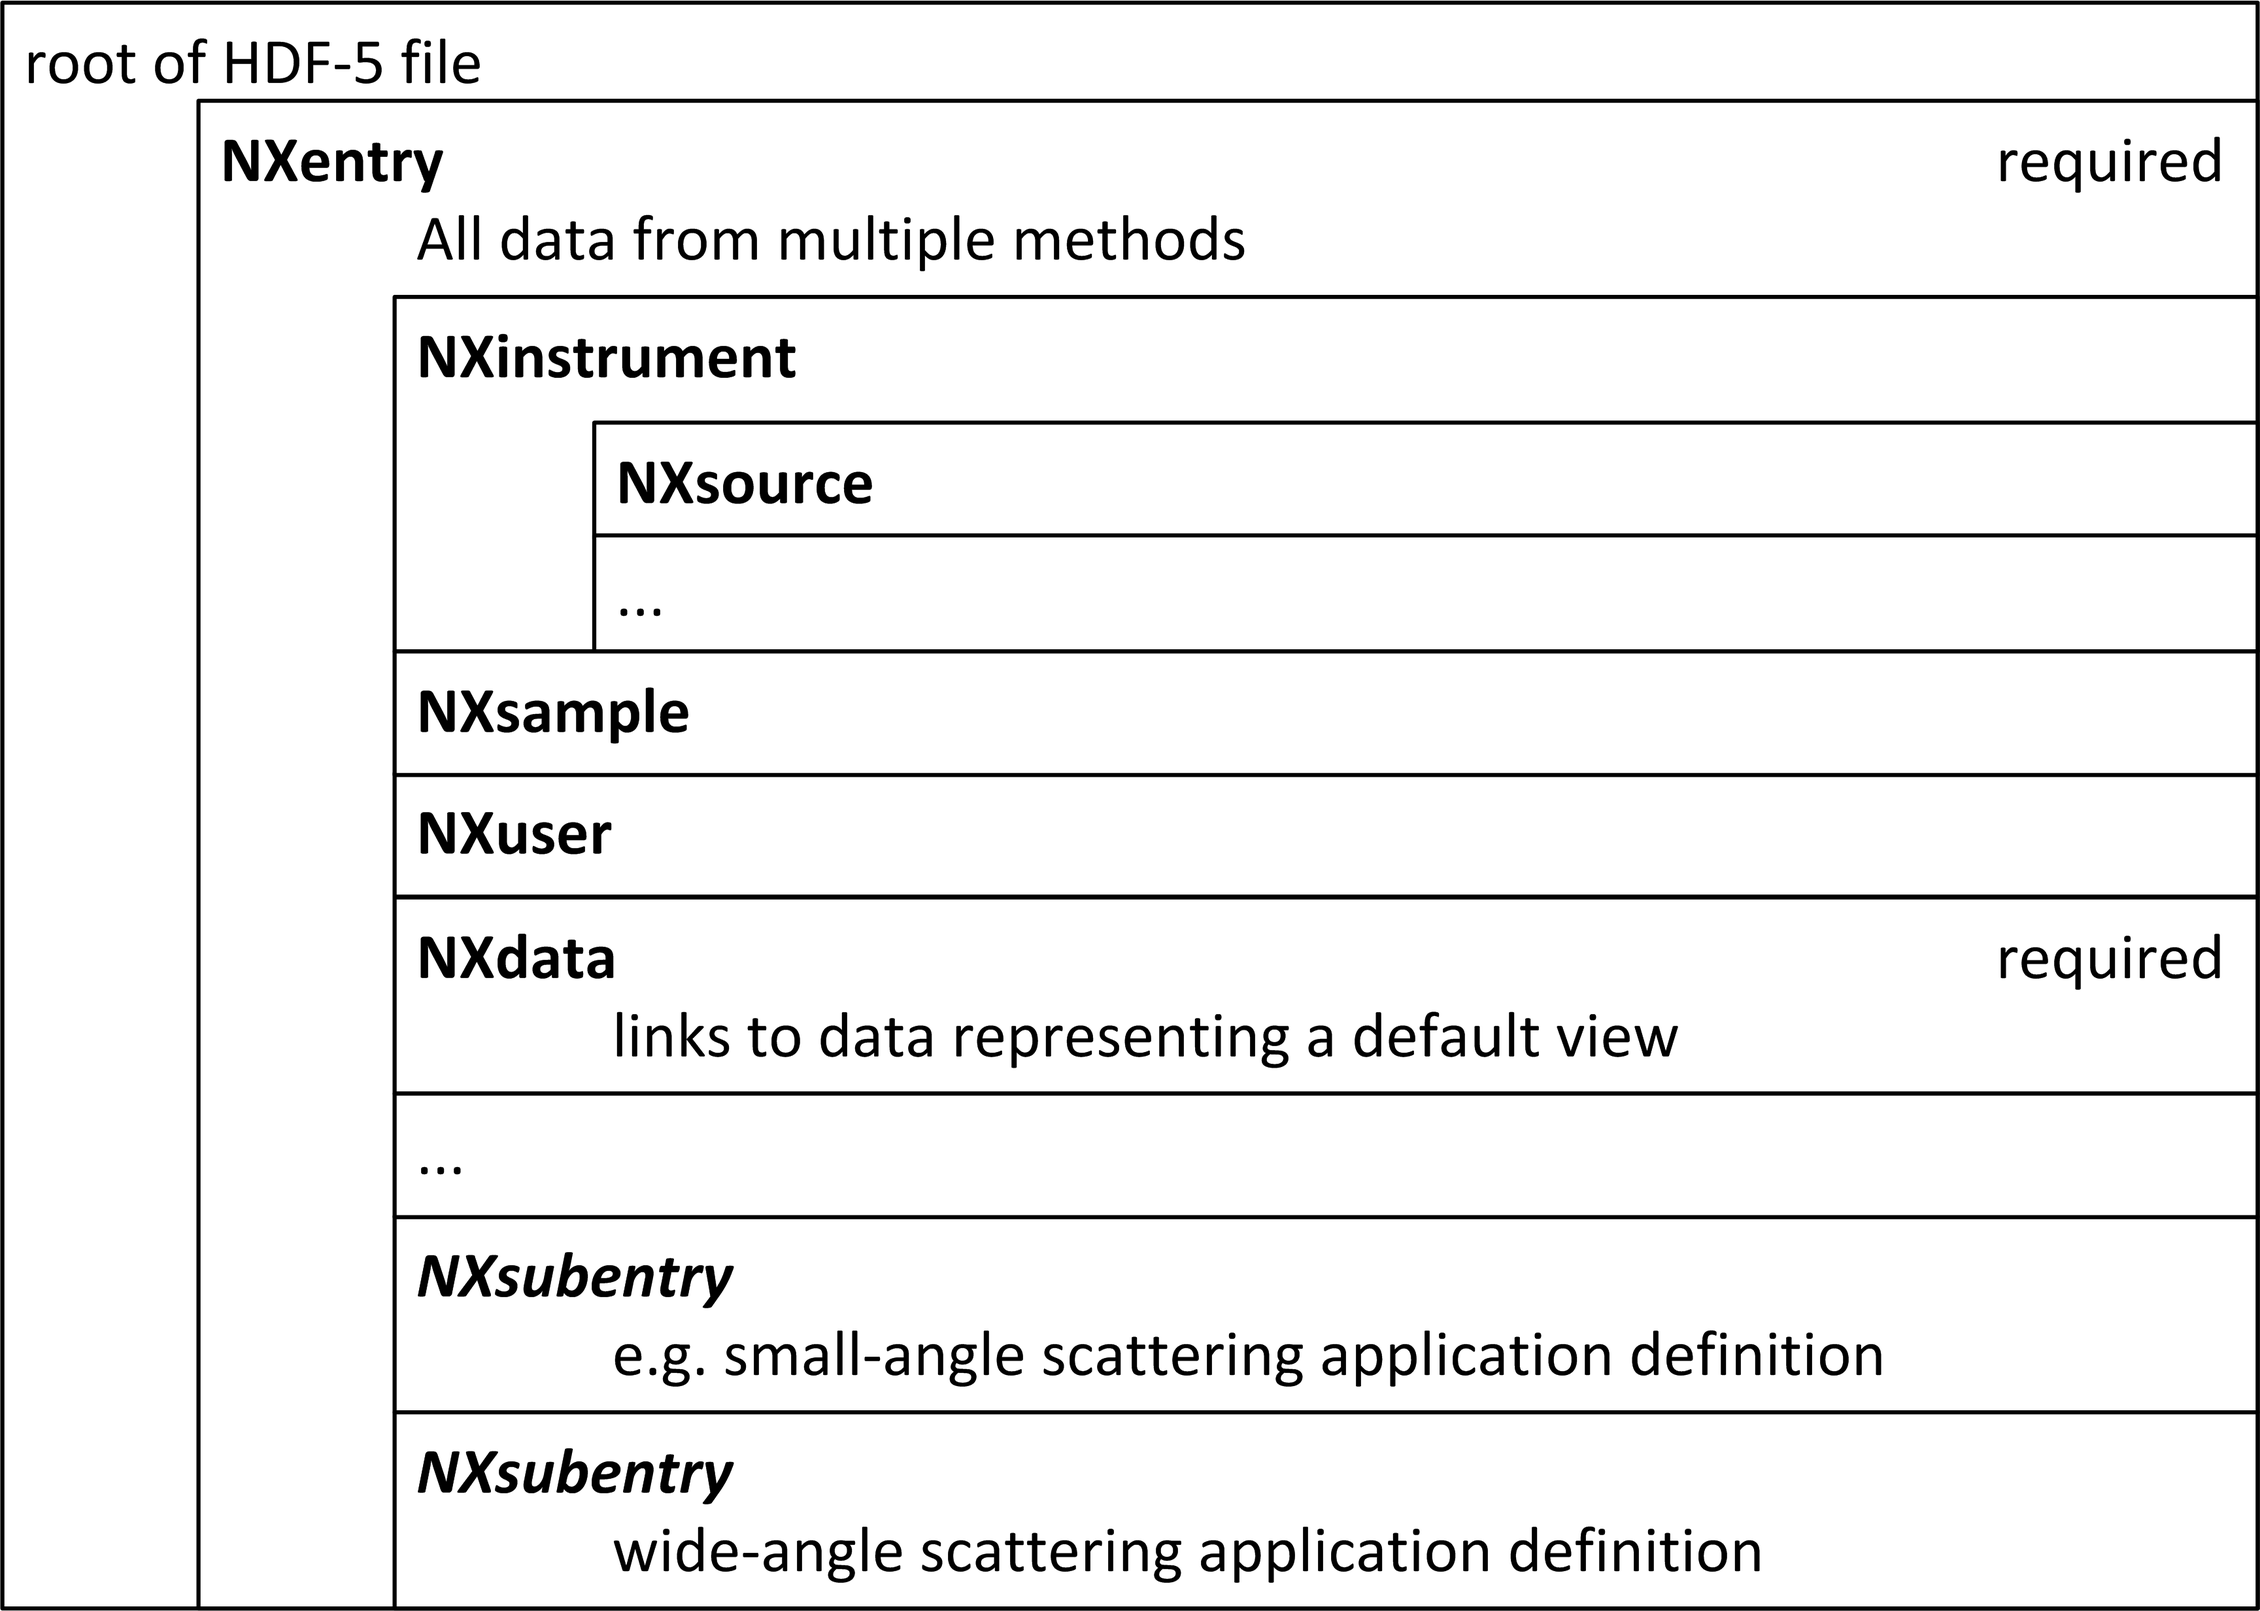
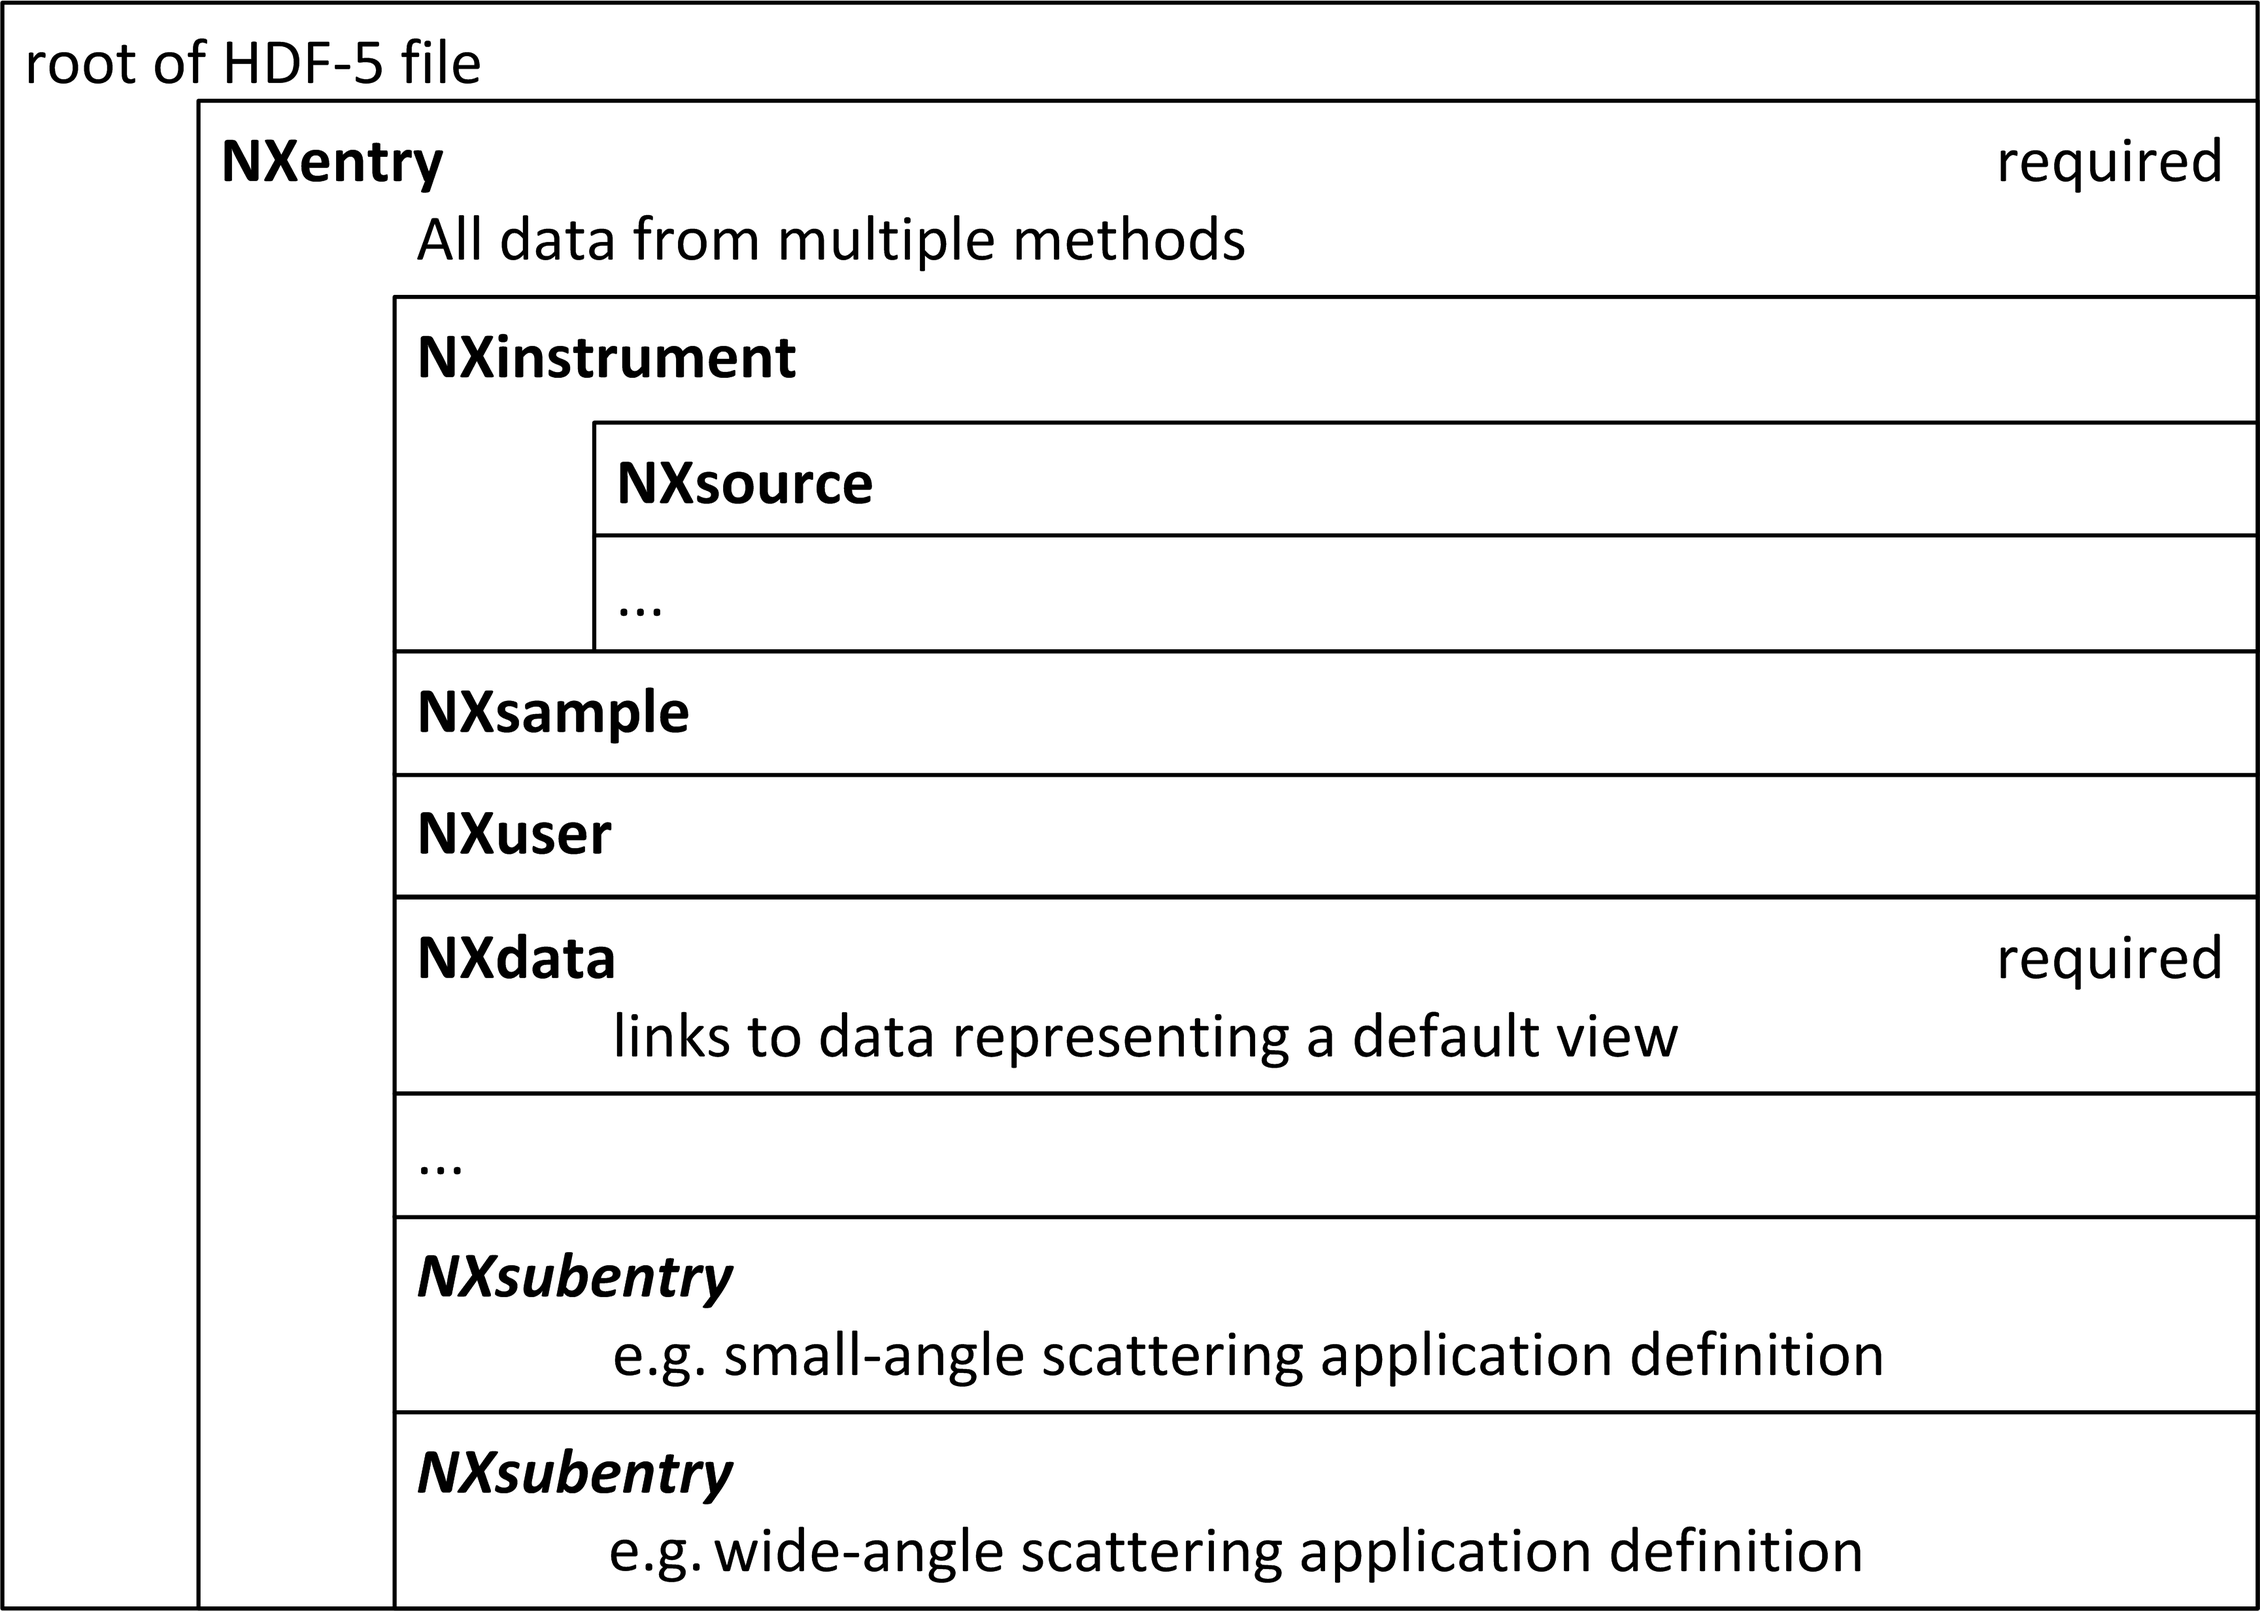
Copyedit pass by FCB, add "e.g" on ast line of Fig 2.  Add NIH to primary US funders.  Other small changes -- HJB

Changed region(s): [[0.2812, 0.9375, 0.8123, 1.0]]

diff --git a/2014/csipaper/nexus14aip.tex b/2014/csipaper/nexus14aip.tex
@@ -184,7 +184,7 @@ in the NeXus application definitions (Sect.~\ref{sect_appdef}).
 
 \section{File Hierarchies}
 NeXus data files are organized into a hierarchy of groups which, in turn, can contain further groups or fields, 
-very much like an internal file system. The content of each NeXus group is defined by either a base class, 
+very much like an internal file system. The content of each NeXus group is defined by a base class, or 
 an application definition, or a contributed definition.
 
 
@@ -197,7 +197,7 @@ an application definition, or a contributed definition.
 \end{figure}
 
 The major focus of NeXus has been the recording of \emph{raw} experimental data, i.e. information taken directly from the experimental 
-equipment, or processed only as required to provide physically meaningful values.
+equipment or processed only as required to provide physically meaningful values.
 The NeXus raw data file hierarchy is the consequence of some practical considerations. 
 An overview of the NeXus data file structure for raw experimental data is shown in FIG.~\ref{rawfile}.
 
@@ -245,7 +245,7 @@ Information that is particular for one experimental technique
 is linked  into a \texttt{NXsubentry}. The \texttt{NXsubentry} follows the hierarchy of 
 \texttt{NXentry}. But it will typically only link to the data required by the 
 application definition for the specific experimental technique. The point of this scheme 
-is that both humans and computerized users can easily locate method specific data while 
+is that both humans and computerized users can easily locate method-specific data while 
 maintaining the full view of the experiment.   
 
 \begin{figure}
@@ -273,7 +273,7 @@ Scans are stored in NeXus following these conventions:
 \begin{itemize}
 \item Each variable varied or collected in the scan is stored at its appropriate place in the NeXus beamline 
  hierarchy as an array. The array's first dimension is the scan axis. This is the unlimited dimension in 
- the implementation and data is appended at each scan point to the array. 
+ the implementation and data at each scan point is appended to the array. 
 \item The \texttt{NXdata} group holds links to all the variables varied or collected during the scan. 
  This creates something equivalent to or better than the tabular representation people are used to for scans. 
  The main detector data can be plotted against any scanned parameter as well as against everything that was 
@@ -320,10 +320,10 @@ for storing the input and output parameters of the program used to perform the p
 \section{Coordinate Systems, Positioning of Components and Further Rules}
 
 For data reduction, it is often necessary to know the exact position and orientation of beamline components. 
-The first thing needed is a reference coordinate system. NeXus chose to use same coordinate system as the 
+The first thing needed is a reference coordinate system. NeXus chose to the use same coordinate system as the 
 neutron beamline simulation software McStas\cite{mcstas}. 
 
-For describing the placement and orientation of components, NeXus stores the same information as used for the 
+For describing the placement and orientation of components, NeXus stores the same information as is used for the 
 same purpose in the Crystallographic Interchange Format (CIF)\cite{ITCVG}. CIF (and NeXus) stores the details 
 of the translations and rotations necessary to move a given component from the zero point of the coordinate 
 system to its actual position. As coordinate transformations are not commutative, the order of transformations 
@@ -473,7 +473,7 @@ always welcome correspondence concerning the development of the NeXus data forma
 
 \begin{acknowledgments}
 The NIAC acknowledges the support of all the institutions contributing to NeXus and their respective 
-funding agencies. Most notably DOE and NSF in the US. The development of the muSR NeXus data format was partly 
+funding agencies, most notably DOE, NIH and NSF in the US. The development of the muSR NeXus data format was partly 
 funded by the European Commission within the sixth Framework Programme. 
 \end{acknowledgments}
 
